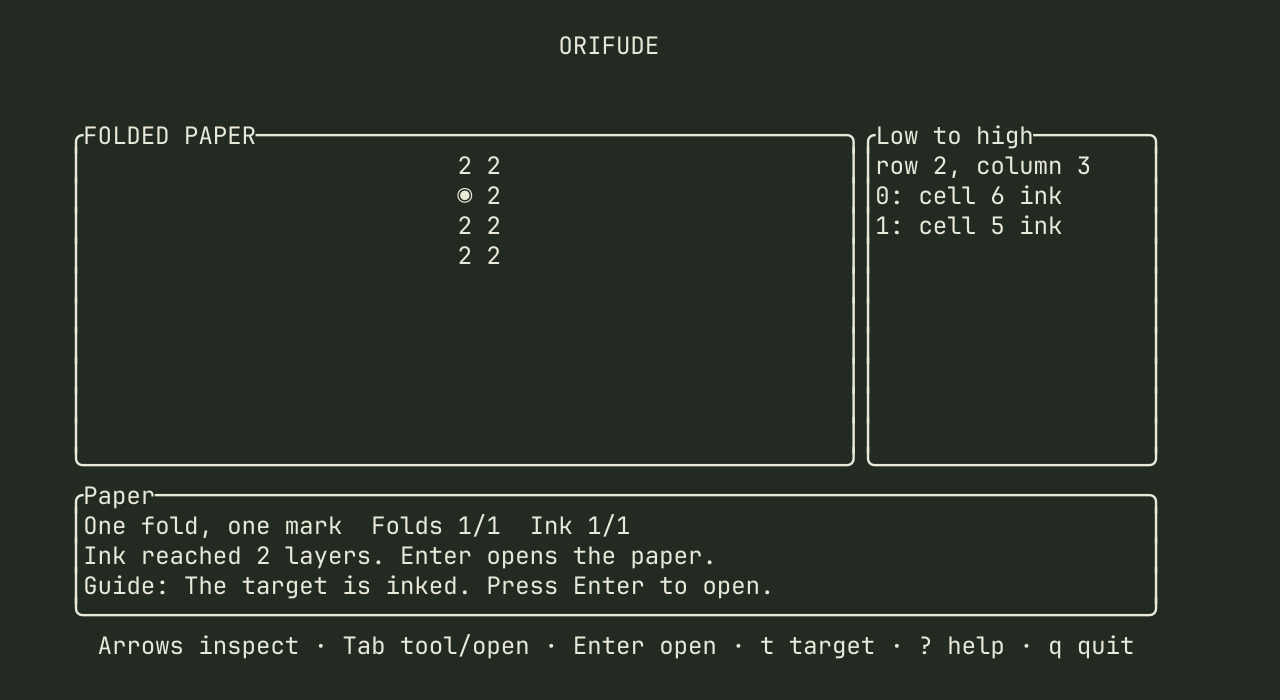
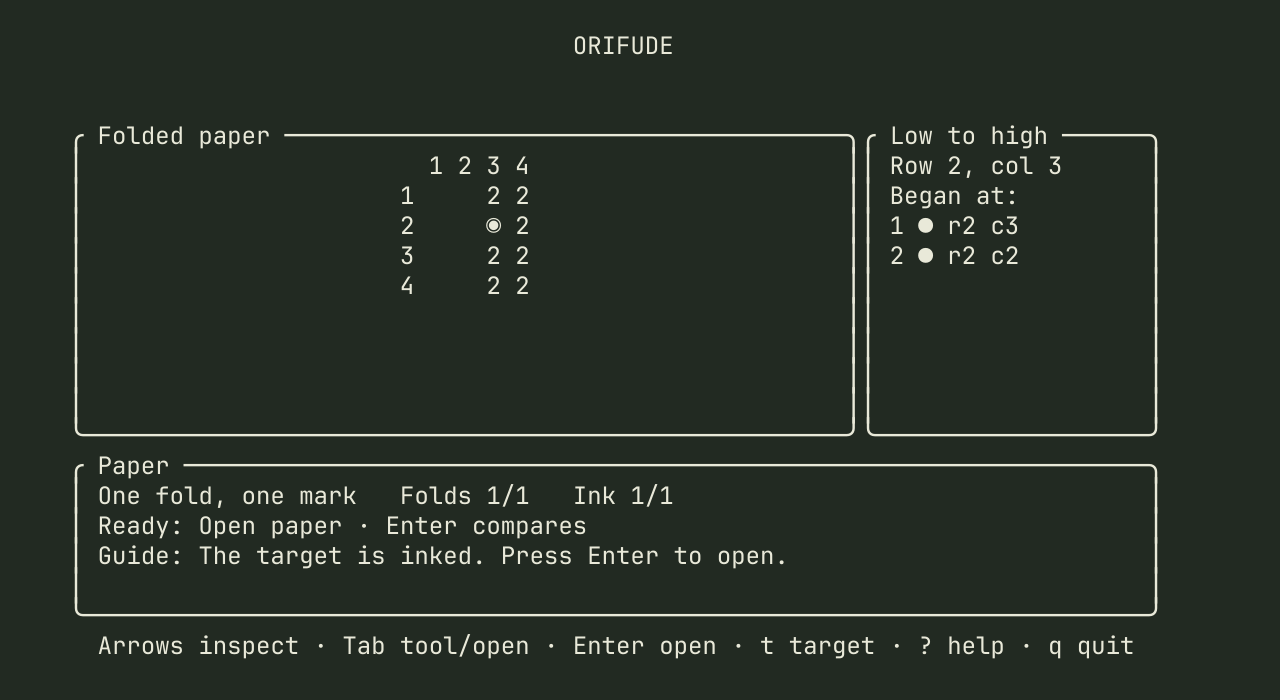
Show the 1.1.0 play screen in the terminal still
Recapture the first-lesson recording from the published 1.1.0 binary, so
the README image and full-size capture show numbered boards and the stack's
layer origins. Give the Linux site check twenty minutes, since a slow
mirror spent most of ten installing browsers before any test ran.

diff --git a/docs/maintenance.md b/docs/maintenance.md
@@ -44,8 +44,8 @@ the puzzle engine. The landing page sets `src/content/lesson-frame.txt` as text:
 a 100-column capture of the native lesson after one fold and one dot. Recapture
 it when the play screen changes. Paper grain, fibers, and the torn sheet edge are
 small SVGs in `public/paper/`; the policy blocks `data:` images, so keep them as
-files. The site uses one bundled family, Alegreya, at three sizes. `src/content/journey.cast` comes from native commit
-[`a14d4c9`](https://github.com/nuggocto/orifude/commit/a14d4c94a86e44b84d7ddbe7b43eaf31c8dc638e).
+files. The site uses one bundled family, Alegreya, at three sizes. `src/content/journey.cast` comes from the published 1.1.0 binary, release commit
+[`eb2c309`](https://github.com/nuggocto/orifude/commit/eb2c3094c2198bc3b29ad07087f24318e7035ab9).
 Run `node scripts/prepare-artwork.mjs` to regenerate the terminal still, icons,
 social image, and font notices. That manual task needs JetBrainsMono Nerd Font;
 ordinary builds use checked-in assets and need no system font.
